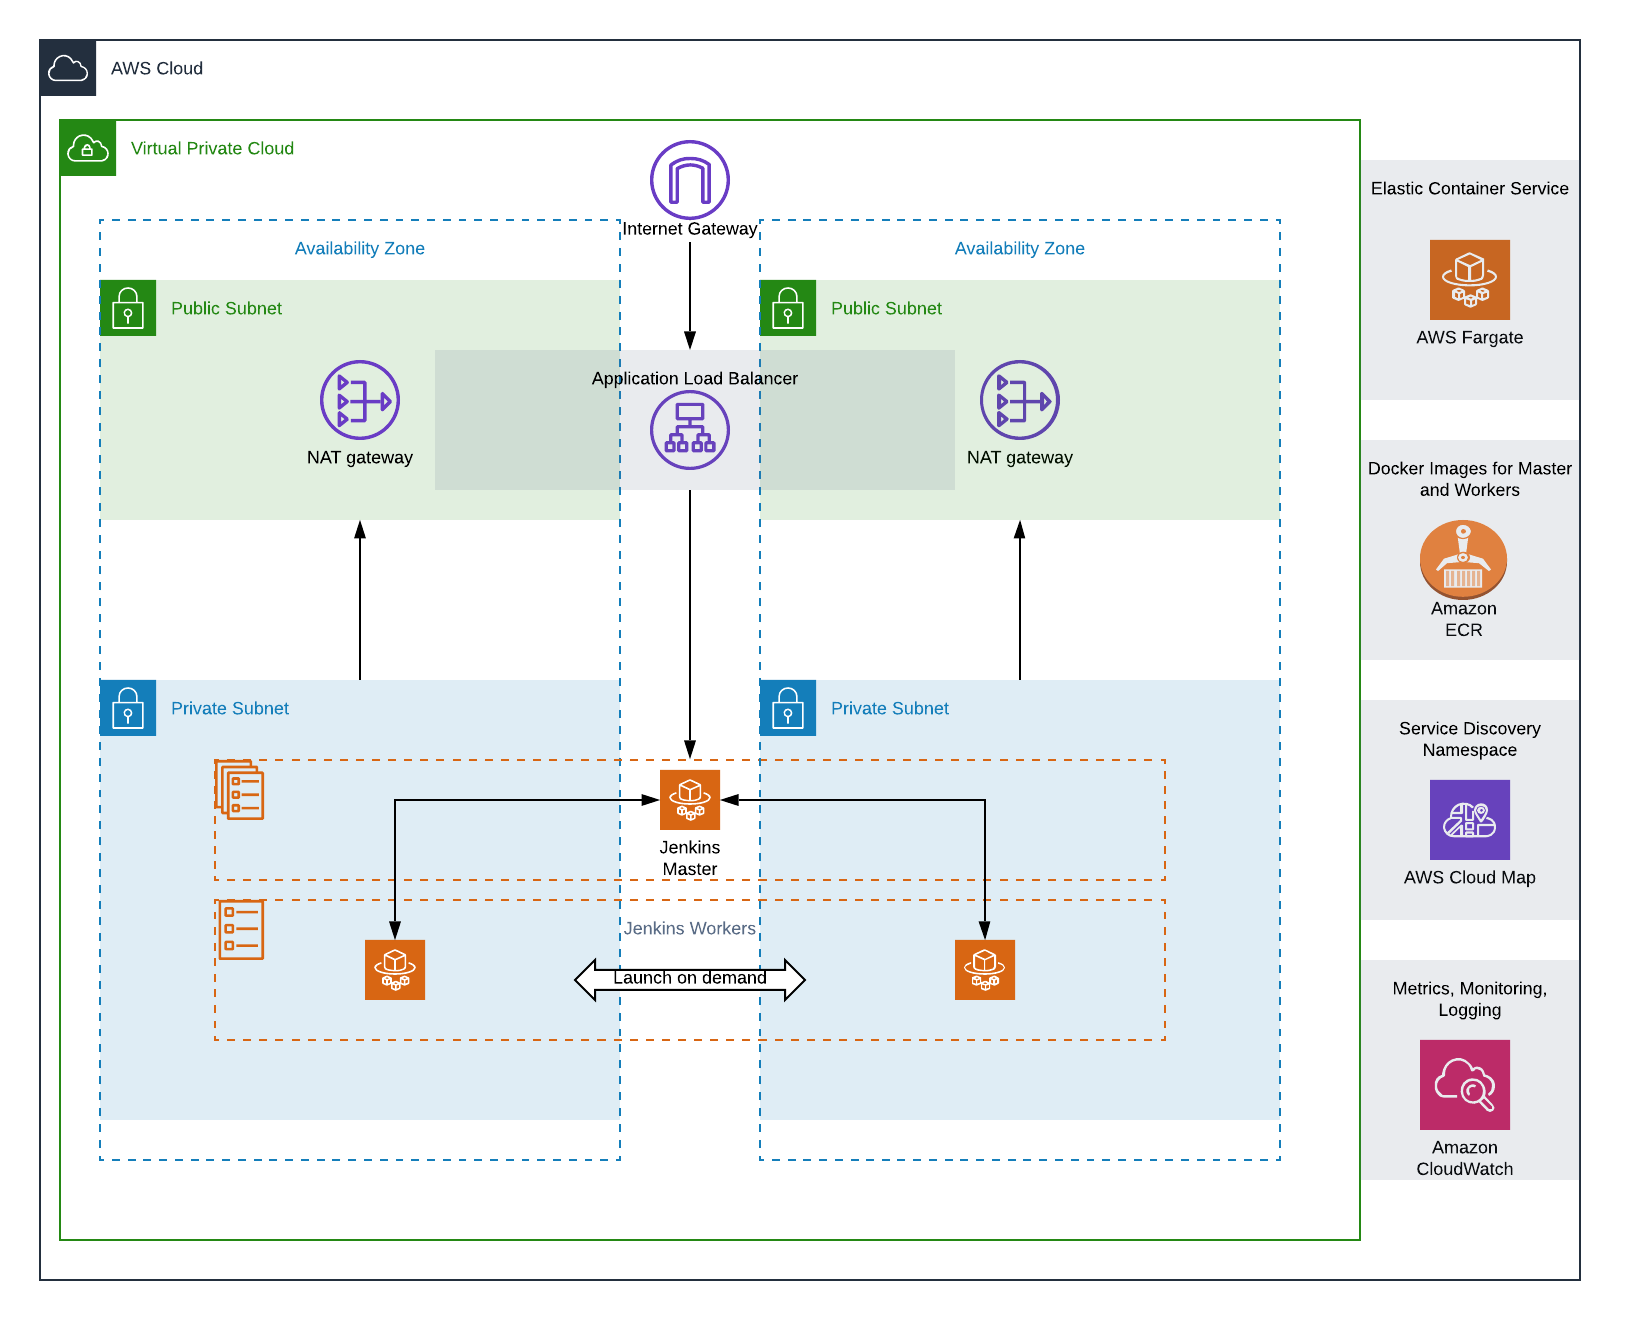
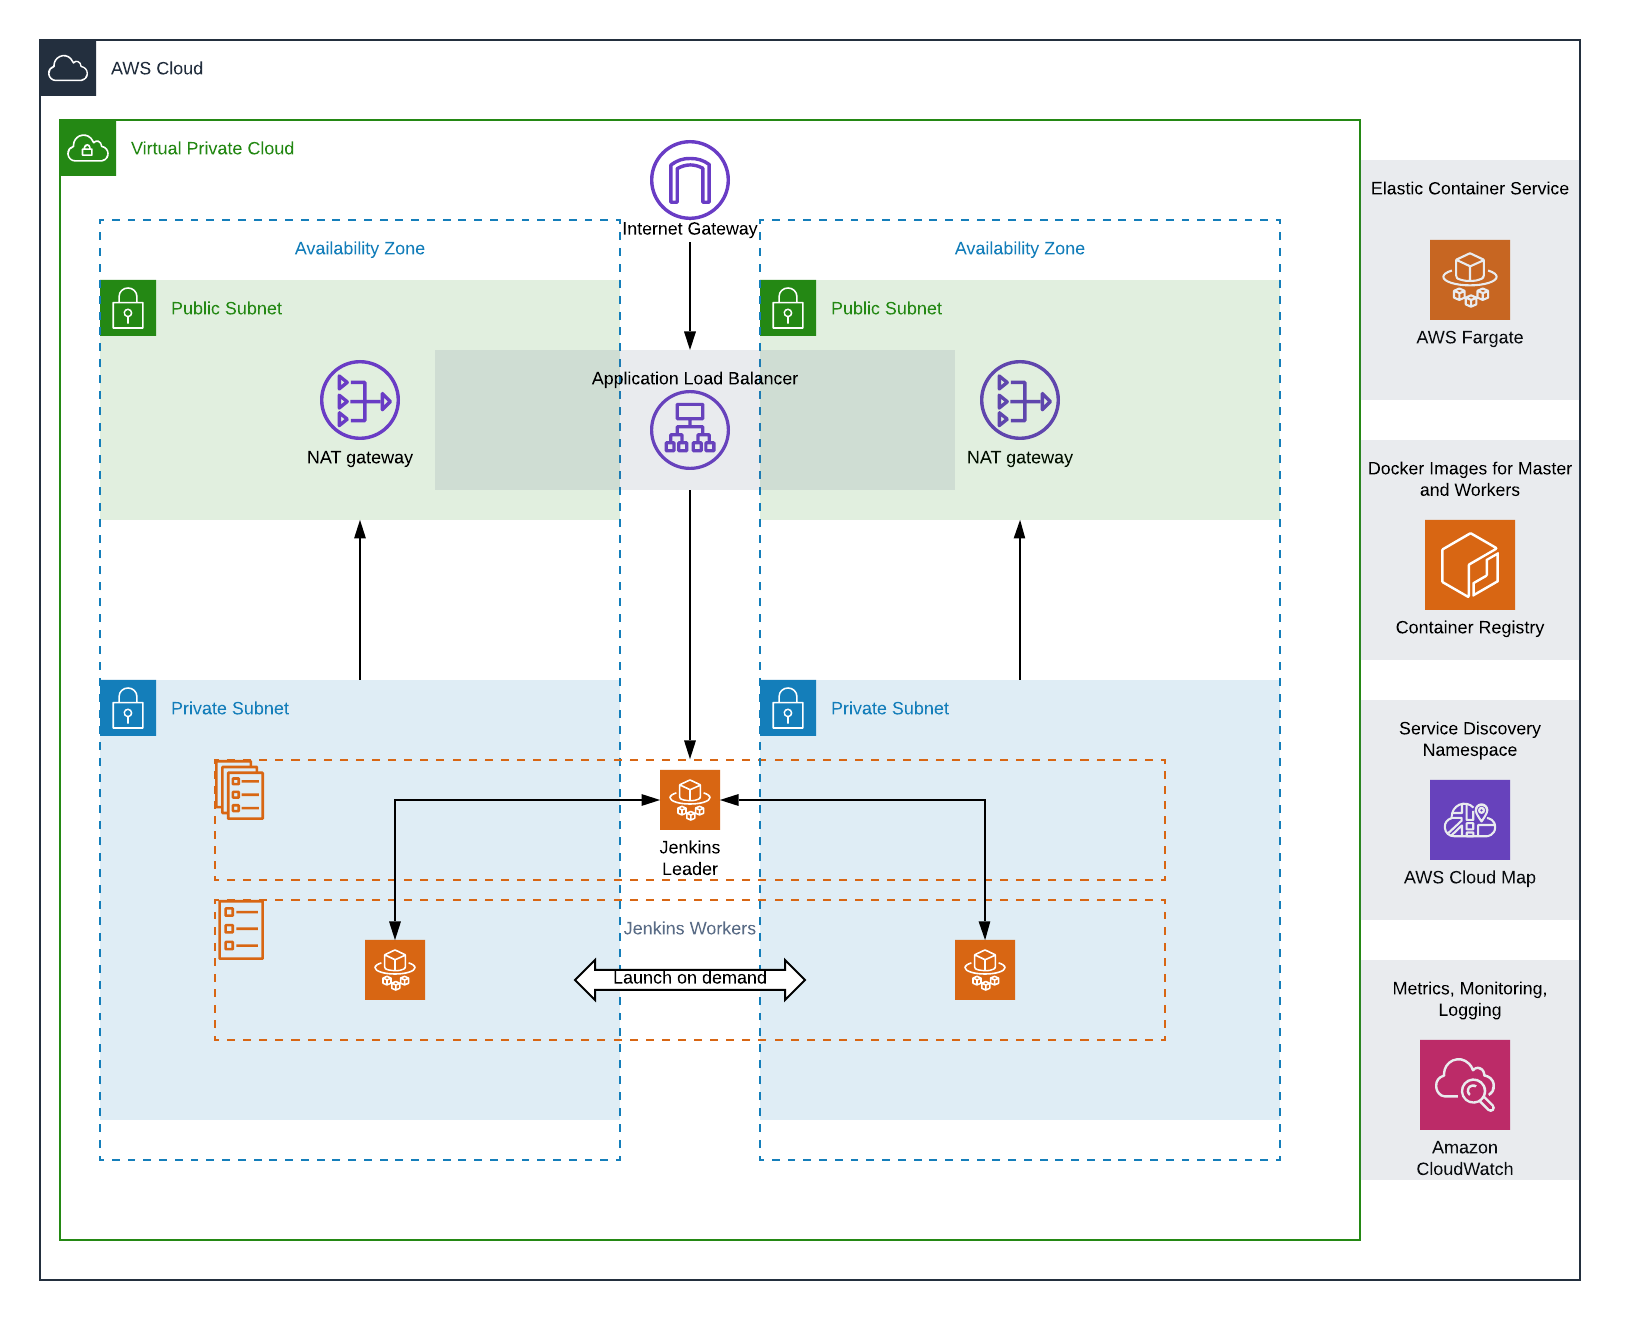
Removing master reference and changing to leader

Changed region(s): [[0.8396, 0.3727, 0.9329, 0.497], [0.5909, 0.7144, 0.622, 0.7455], [0.4043, 0.6523, 0.4354, 0.6833]]

diff --git a/cdk/jenkins/jenkins_leader.py b/cdk/jenkins/jenkins_leader.py
@@ -16,7 +16,7 @@ config = ConfigParser()
 config.read('config.ini')
 
 
-class JenkinsMaster(core.Stack):
+class JenkinsLeader(core.Stack):
 
     def __init__(self, scope: core.Stack, id: str, cluster, vpc, worker, **kwargs) -> None:
         super().__init__(scope, id, **kwargs)
@@ -24,22 +24,22 @@ class JenkinsMaster(core.Stack):
         self.vpc = vpc
         self.worker = worker
 
-        # Building a custom image for jenkins master.
+        # Building a custom image for jenkins leader.
         self.container_image = ecr.DockerImageAsset(
-            self, "JenkinsMasterDockerImage",
-            directory='./docker/master/'
+            self, "JenkinsleaderDockerImage",
+            directory='./docker/leader/'
         )
 
         if config['DEFAULT']['fargate_enabled'] == "yes" or not config['DEFAULT']['ec2_enabled'] == "yes":
-            # Task definition details to define the Jenkins master container
+            # Task definition details to define the Jenkins leader container
             self.jenkins_task = ecs_patterns.ApplicationLoadBalancedTaskImageOptions(
                 image=ecs.ContainerImage.from_docker_image_asset(self.container_image),
                 container_port=8080,
                 enable_logging=True,
                 environment={
-                    # https://github.com/jenkinsci/docker/blob/master/README.md#passing-jvm-parameters
+                    # https://github.com/jenkinsci/docker/blob/leader/README.md#passing-jvm-parameters
                     'JAVA_OPTS': '-Djenkins.install.runSetupWizard=false',
-                    # https://github.com/jenkinsci/configuration-as-code-plugin/blob/master/README.md#getting-started
+                    # https://github.com/jenkinsci/configuration-as-code-plugin/blob/leader/README.md#getting-started
                     'CASC_JENKINS_CONFIG': '/config-as-code.yaml',
                     'network_stack': self.vpc.stack_name,
                     'cluster_stack': self.cluster.stack_name,
@@ -56,45 +56,45 @@ class JenkinsMaster(core.Stack):
                 },
             )
 
-            # Create the Jenkins master service
-            self.jenkins_master_service_main = ecs_patterns.ApplicationLoadBalancedFargateService(
-                self, "JenkinsMasterService",
+            # Create the Jenkins leader service
+            self.jenkins_leader_service_main = ecs_patterns.ApplicationLoadBalancedFargateService(
+                self, "JenkinsleaderService",
                 cpu=int(config['DEFAULT']['fargate_cpu']),
                 memory_limit_mib=int(config['DEFAULT']['fargate_memory_limit_mib']),
                 cluster=self.cluster.cluster,
                 desired_count=1,
                 enable_ecs_managed_tags=True,
                 task_image_options=self.jenkins_task,
-                cloud_map_options=ecs.CloudMapOptions(name="master", dns_record_type=sd.DnsRecordType('A'))
+                cloud_map_options=ecs.CloudMapOptions(name="leader", dns_record_type=sd.DnsRecordType('A'))
             )
 
-            self.jenkins_master_service = self.jenkins_master_service_main.service
-            self.jenkins_master_task = self.jenkins_master_service.task_definition
+            self.jenkins_leader_service = self.jenkins_leader_service_main.service
+            self.jenkins_leader_task = self.jenkins_leader_service.task_definition
 
         if config['DEFAULT']['ec2_enabled'] == "yes":
             self.jenkins_load_balancer = elb.ApplicationLoadBalancer(
-                self, "JenkinsMasterELB",
+                self, "JenkinsleaderELB",
                 vpc=self.vpc.vpc,
                 internet_facing=True,
             )
 
             self.listener = self.jenkins_load_balancer.add_listener("Listener", port=80)
 
-            self.jenkins_master_task = ecs.Ec2TaskDefinition(
-                self, "JenkinsMasterTaskDef",
+            self.jenkins_leader_task = ecs.Ec2TaskDefinition(
+                self, "JenkinsleaderTaskDef",
                 network_mode=ecs.NetworkMode.AWS_VPC,
                 volumes=[ecs.Volume(name="efs_mount", host=ecs.Host(source_path='/mnt/efs'))],
             )
 
-            self.jenkins_master_task.add_container(
-                "JenkinsMasterContainer",
+            self.jenkins_leader_task.add_container(
+                "JenkinsleaderContainer",
                 image=ecs.ContainerImage.from_ecr_repository(self.container_image.repository),
                 cpu=int(config['DEFAULT']['ec2_cpu']),
                 memory_limit_mib=int(config['DEFAULT']['ec2_memory_limit_mib']),
                 environment={
-                    # https://github.com/jenkinsci/docker/blob/master/README.md#passing-jvm-parameters
+                    # https://github.com/jenkinsci/docker/blob/leader/README.md#passing-jvm-parameters
                     'JAVA_OPTS': '-Djenkins.install.runSetupWizard=false',
-                    # https://github.com/jenkinsci/configuration-as-code-plugin/blob/master/README.md#getting-started
+                    # https://github.com/jenkinsci/configuration-as-code-plugin/blob/leader/README.md#getting-started
                     'CASC_JENKINS_CONFIG': '/config-as-code.yaml',
                     'network_stack': self.vpc.stack_name,
                     'cluster_stack': self.cluster.stack_name,
@@ -110,12 +110,12 @@ class JenkinsMaster(core.Stack):
                     'worker_log_stream_prefix': self.worker.worker_log_stream.log_stream_name
                 },
                 logging=ecs.LogDriver.aws_logs(
-                    stream_prefix="JenkinsMaster",
+                    stream_prefix="Jenkinsleader",
                     log_retention=logs.RetentionDays.ONE_WEEK
                 ),
             )
 
-            self.jenkins_master_task.default_container.add_mount_points(
+            self.jenkins_leader_task.default_container.add_mount_points(
                 ecs.MountPoint(
                     container_path='/var/jenkins_home',
                     source_volume="efs_mount",
@@ -123,17 +123,17 @@ class JenkinsMaster(core.Stack):
                 )
             )
 
-            self.jenkins_master_task.default_container.add_port_mappings(
+            self.jenkins_leader_task.default_container.add_port_mappings(
                 ecs.PortMapping(
                     container_port=8080,
                     host_port=8080
                 )
             )
 
-            self.jenkins_master_service = ecs.Ec2Service(
-                self, "EC2MasterService",
-                task_definition=self.jenkins_master_task,
-                cloud_map_options=ecs.CloudMapOptions(name="master", dns_record_type=sd.DnsRecordType('A')),
+            self.jenkins_leader_service = ecs.Ec2Service(
+                self, "EC2leaderService",
+                task_definition=self.jenkins_leader_task,
+                cloud_map_options=ecs.CloudMapOptions(name="leader", dns_record_type=sd.DnsRecordType('A')),
                 desired_count=1,
                 min_healthy_percent=0,
                 max_healthy_percent=100,
@@ -142,46 +142,46 @@ class JenkinsMaster(core.Stack):
             )
 
             self.target_group = self.listener.add_targets(
-                "JenkinsMasterTarget",
+                "JenkinsleaderTarget",
                 port=80,
                 targets=[
-                    self.jenkins_master_service.load_balancer_target(
-                        container_name=self.jenkins_master_task.default_container.container_name,
+                    self.jenkins_leader_service.load_balancer_target(
+                        container_name=self.jenkins_leader_task.default_container.container_name,
                         container_port=8080,
                     )
                 ],
                 deregistration_delay=core.Duration.seconds(10)
             )
 
-        # Opening port 5000 for master <--> worker communications
-        self.jenkins_master_service.task_definition.default_container.add_port_mappings(
+        # Opening port 5000 for leader <--> worker communications
+        self.jenkins_leader_service.task_definition.default_container.add_port_mappings(
             ecs.PortMapping(container_port=50000, host_port=50000)
         )
 
-        # Enable connection between Master and Worker
-        self.jenkins_master_service.connections.allow_from(
+        # Enable connection between leader and Worker
+        self.jenkins_leader_service.connections.allow_from(
             other=self.worker.worker_security_group,
             port_range=ec2.Port(
                 protocol=ec2.Protocol.TCP,
-                string_representation='Master to Worker 50000',
+                string_representation='leader to Worker 50000',
                 from_port=50000,
                 to_port=50000
             )
         )
 
-        # Enable connection between Master and Worker on 8080
-        self.jenkins_master_service.connections.allow_from(
+        # Enable connection between leader and Worker on 8080
+        self.jenkins_leader_service.connections.allow_from(
             other=self.worker.worker_security_group,
             port_range=ec2.Port(
                 protocol=ec2.Protocol.TCP,
-                string_representation='Master to Worker 8080',
+                string_representation='leader to Worker 8080',
                 from_port=8080,
                 to_port=8080
             )
         )
 
         # IAM Statements to allow jenkins ecs plugin to talk to ECS as well as the Jenkins cluster #
-        self.jenkins_master_task.add_to_task_role_policy(
+        self.jenkins_leader_task.add_to_task_role_policy(
             iam.PolicyStatement(
                 actions=[
                     "ecs:RegisterTaskDefinition",
@@ -198,7 +198,7 @@ class JenkinsMaster(core.Stack):
             )
         )
 
-        self.jenkins_master_task.add_to_task_role_policy(
+        self.jenkins_leader_task.add_to_task_role_policy(
             iam.PolicyStatement(
                 actions=[
                     "ecs:ListContainerInstances"
@@ -209,7 +209,7 @@ class JenkinsMaster(core.Stack):
             )
         )
 
-        self.jenkins_master_task.add_to_task_role_policy(
+        self.jenkins_leader_task.add_to_task_role_policy(
             iam.PolicyStatement(
                 actions=[
                     "ecs:RunTask"
@@ -223,7 +223,7 @@ class JenkinsMaster(core.Stack):
             )
         )
 
-        self.jenkins_master_task.add_to_task_role_policy(
+        self.jenkins_leader_task.add_to_task_role_policy(
             iam.PolicyStatement(
                 actions=[
                     "ecs:StopTask"
@@ -242,7 +242,7 @@ class JenkinsMaster(core.Stack):
             )
         )
 
-        self.jenkins_master_task.add_to_task_role_policy(
+        self.jenkins_leader_task.add_to_task_role_policy(
             iam.PolicyStatement(
                 actions=[
                     "iam:PassRole"

diff --git a/cdk/app.py b/cdk/app.py
@@ -5,7 +5,7 @@ from os import getenv
 from configparser import ConfigParser
 from jenkins.network import Network
 from jenkins.ecs import ECSCluster
-from jenkins.jenkins_master import JenkinsMaster
+from jenkins.jenkins_leader import JenkinsLeader
 from jenkins.jenkins_worker import JenkinsWorker
 
 config = ConfigParser()
@@ -21,6 +21,6 @@ app = core.App()
 network = Network(app, stack_name + 'Network')
 ecs_cluster = ECSCluster(app, stack_name + 'ECS', vpc=network.vpc, service_discovery_namespace=service_discovery_namespace)
 jenkins_workers = JenkinsWorker(app, stack_name + "Worker", vpc=network.vpc, cluster=ecs_cluster)
-jenkins_master_service = JenkinsMaster(app, stack_name + 'JenkinsMaster', cluster=ecs_cluster, vpc=network, worker=jenkins_workers)
+jenkins_leader_service = JenkinsLeader(app, stack_name + 'JenkinsLeader', cluster=ecs_cluster, vpc=network, worker=jenkins_workers)
 
 app.synth()

diff --git a/cdk/jenkins/jenkins_worker.py b/cdk/jenkins/jenkins_worker.py
@@ -18,17 +18,17 @@ class JenkinsWorker(core.Stack):
         self.vpc = vpc
         self.cluster = cluster
 
-        # Building a custom image for jenkins master.
+        # Building a custom image for jenkins leader.
         self.container_image = ecr.DockerImageAsset(
             self, "JenkinsWorkerDockerImage",
             directory='./docker/worker/'
         )
 
-        # Security group to connect workers to master
+        # Security group to connect workers to leader
         self.worker_security_group = ec2.SecurityGroup(
             self, "WorkerSecurityGroup",
             vpc=self.vpc,
-            description="Jenkins Worker access to Jenkins Master",
+            description="Jenkins Worker access to Jenkins leader",
         )
 
         # IAM execution role for the workers to pull from ECR and push to CloudWatch logs

diff --git a/README.md b/README.md
@@ -17,7 +17,7 @@ Managing Jenkins is hard. From plugin management and configuration details, to e
 
 ./cdk/ <-- Deployment configuration
 
-./cdk/docker/ <-- Dockerfiles and associated config files for Master and Worker images
+./cdk/docker/ <-- Dockerfiles and associated config files for Leader and Worker images
 
 ./cdk/app.py <-- cdk application file where all stacks are instantiated and built
 
@@ -33,14 +33,14 @@ To deploy this environment, we will use the [aws-cdk](https://github.com/aws/aws
 - Please follow the requirements to install from the cdk github repo
 - Tested with the following version: `1.15.0 (build bdbe3aa)`
 
-## Fargate Jenkins (Master and Workers)
+## Fargate Jenkins (Leader and Workers)
 
 Set config.ini
 ```bash
 fargate_enabled = yes
 ```
 
-## EC2 Backed Master and Fargate Workers
+## EC2 Backed Leader and Fargate Workers
 Set config.ini
 ```bash
 ec2_enabled = yes
@@ -59,7 +59,7 @@ Output should look something like:
 ```console
 [user@computer cdk (cdk)]$ cdk synth
 Successfully synthesized to jenkins-on-aws/cdk/cdk.out
-Supply a stack name (JenkinsOnAWSNetwork, JenkinsOnAWSECS, JenkinsOnAWSWorker, JenkinsOnAWSJenkinsMaster) to display its template.
+Supply a stack name (JenkinsOnAWSNetwork, JenkinsOnAWSECS, JenkinsOnAWSWorker, JenkinsOnAWSJenkinsLeader) to display its template.
 ```
 
 Feel free to check out the [CloudFormation](https://aws.amazon.com/cloudformation/) templates created by the cdk in the `cdk.out` directory
